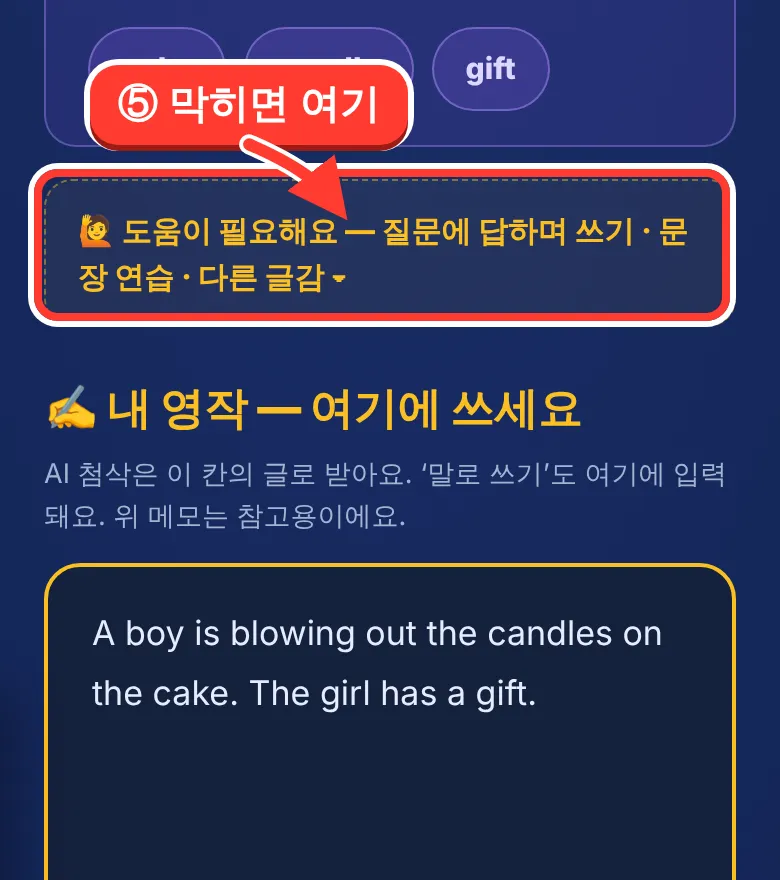
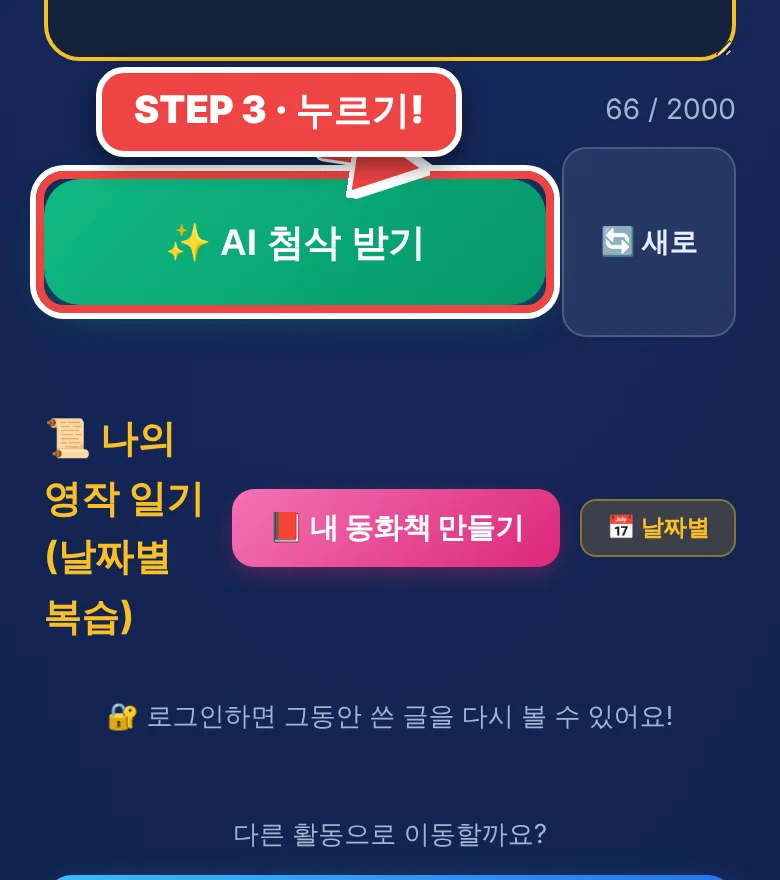
AI 영작 사용 방법 사진을 STEP 1·2·3 표기로 다시 찍기
- 📖 사용 방법 사진 5장에 남아 있던 옛 표기(① 오늘의 그림 · 내 영작 — 여기에 쓰세요)를
  실제 화면에서 다시 찍어 교체(scripts/shoot-aiwrite-guide.mjs 로 재현 가능)
- 설명서 순서를 화면 위→아래(STEP 1 그림·단어 → STEP 2 도움 → STEP 3 쓰기·첨삭)로,
  제목도 ①~⑤ 대신 STEP n (KO/EN)
- 사진 주소 ?v=1 → 2 (immutable 캐시)

Claude-Session: https://claude.ai/code/session_01JBk1Am27dEkotBv9nAyuNf

diff --git a/cloudflare-deploy/public/ai-write.html b/cloudflare-deploy/public/ai-write.html
@@ -749,16 +749,17 @@
   <script>
   (function () {
     var STEPS = [
-      { img: 1, ko: ['① 그림을 봐요', '마음에 드는 그림을 골라요. 다른 그림이 보고 싶으면 «🔀 다른 그림» 을 눌러요.'],
-                en: ['① Look at the picture', 'Pick a picture you like. Tap «🔀 Another picture» to see a different one.'] },
-      { img: 2, ko: ['② 그림 속 단어를 찾아요', '보라색 단어 3개가 그림 안에 숨어 있어요. 3개를 모두 넣어서 쓰면 ⭐ +15P!'],
-                en: ['② Find the picture words', 'The 3 purple words are hiding in the picture. Use all 3 to get ⭐ +15P!'] },
-      { img: 3, ko: ['③ 영어로 써요', '그림 속 사람이 무엇을 하는지 영어로 써요. 짧아도 괜찮아요! «🎤 말로 쓰기» 버튼이 보이면 말로도 쓸 수 있어요.'],
-                en: ['③ Write in English', 'Write what the people in the picture are doing. Short is OK! If you see «🎤 Speak to write», you can write by speaking.'] },
-      { img: 4, ko: ['④ «AI 첨삭 받기» 를 눌러요', '망고 선생님이 틀린 곳을 고쳐 주고 점수를 알려 줘요. 고친 문장을 보고 따라 써 보면 포인트를 더 받아요.'],
-                en: ['④ Tap «Get AI Correction»', 'Coach Mango fixes mistakes and gives you a score. Copy the fixed sentence to earn more points.'] },
-      { img: 5, ko: ['⑤ 막히면 «도움이 필요해요»', '무엇을 쓸지 모르겠으면 눌러 봐요. 질문에 답하면 문장 뼈대를 만들어 줘요.'],
-                en: ['⑤ Stuck? Tap «Need help?»', 'Not sure what to write? Tap it. Answer the questions and you get a sentence outline.'] }
+      // 화면의 STEP 1·2·3 과 같은 이름·같은 순서(위에서 아래). 사진은 scripts/shoot-aiwrite-guide.mjs 가 찍는다 — 순서를 바꾸면 그쪽 SHOTS 도.
+      { img: 1, ko: ['STEP 1 · 그림을 봐요', '마음에 드는 그림을 골라요. 다른 그림이 보고 싶으면 «🔀 다른 그림» 을 눌러요.'],
+                en: ['STEP 1 · Look at the picture', 'Pick a picture you like. Tap «🔀 Another picture» to see a different one.'] },
+      { img: 2, ko: ['STEP 1 · 그림 속 단어를 찾아요', '보라색 단어 3개가 그림 안에 숨어 있어요. 3개를 모두 넣어서 쓰면 ⭐ +15P!'],
+                en: ['STEP 1 · Find the picture words', 'The 3 purple words are hiding in the picture. Use all 3 to get ⭐ +15P!'] },
+      { img: 3, ko: ['STEP 2 · 막히면 «도움이 필요해요»', '무엇을 쓸지 모르겠으면 눌러 봐요(안 해도 돼요). 질문에 답하면 문장 뼈대를 만들어 줘요.'],
+                en: ['STEP 2 · Stuck? Tap «Need help?»', 'Not sure what to write? Tap it (optional). Answer the questions and you get a sentence outline.'] },
+      { img: 4, ko: ['STEP 3 · 영어로 써요', '그림 속 사람이 무엇을 하는지 영어로 써요. 짧아도 괜찮아요! «🎤 말로 쓰기» 버튼이 보이면 말로도 쓸 수 있어요.'],
+                en: ['STEP 3 · Write in English', 'Write what the people in the picture are doing. Short is OK! If you see «🎤 Speak to write», you can write by speaking.'] },
+      { img: 5, ko: ['STEP 3 · «AI 첨삭 받기» 를 눌러요', '망고 선생님이 틀린 곳을 고쳐 주고 점수를 알려 줘요. 고친 문장을 보고 따라 써 보면 포인트를 더 받아요.'],
+                en: ['STEP 3 · Tap «Get AI Correction»', 'Coach Mango fixes mistakes and gives you a score. Copy the fixed sentence to earn more points.'] }
     ];
     var cur = 0;
     function en() { try { return window.getLang && window.getLang() === 'en'; } catch (e) { return false; } }
@@ -767,7 +768,7 @@
       var st = STEPS[cur], L = en() ? st.en : st.ko;
       document.getElementById('awHowStep').innerHTML =
         '<h3>' + esc(L[0]) + '</h3>' +
-        '<img src="/img/aiwrite-guide/step' + st.img + '.webp?v=1" width="780" height="880" alt="' + esc(L[0]) + '" loading="lazy">' +
+        '<img src="/img/aiwrite-guide/step' + st.img + '.webp?v=2" width="780" height="880" alt="' + esc(L[0]) + '" loading="lazy">' +
         '<p>' + esc(L[1]) + '</p>';
       document.getElementById('awHowDots').innerHTML = STEPS.map(function (_, i) { return '<span' + (i === cur ? ' class="on"' : '') + '></span>'; }).join('');
       document.getElementById('awHowPrev').disabled = cur === 0;

diff --git a/docs/작업기록/261016_AI영작_단계번호_STEP123_통일.md b/docs/작업기록/261016_AI영작_단계번호_STEP123_통일.md
@@ -37,5 +37,15 @@
 - «앞서 고른 그림 대신 …» 바뀜 알림(`.go-cur-swap`) 글자 대비가 **4.48**(기준 4.5 미달) — 측정 문제가 아니라 실제 값. `#fde68a` → `#fef3c7` 로 밝혀 **5.01**. 옛 색으로 되돌리면 같은 검사가 실제로 FAIL(3건) 나는 것을 확인했다.
 
 ### 아직 안 한 것
-- 📖 사용 방법 창의 ①~④ 사진은 그대로(위 «버린 방법» 셋째 줄 — 화면을 다시 찍을 때 STEP 표기에 맞출 것).
+- ~~📖 사용 방법 창의 ①~④ 사진은 그대로~~ → 2026-10-16 같은 날 다시 찍음(아래 «사용 방법 사진»).
 - 실제 운영 화면은 못 봄(프록시가 mangoi.ai 를 막음). 병합 뒤 사람이 한 번 봐야 끝.
+
+## 사용 방법 사진 (2026-10-16 추가)
+
+- **왜:** 📖 사용 방법 사진 5장에 옛 표기(«① 오늘의 그림»·«내 영작 — 여기에 쓰세요»·사진 속 ①~⑤)가 남아 화면과 어긋남.
+- **한 일:**
+  - `scripts/shoot-aiwrite-guide.mjs` 신설 — 로컬 서버 + 크로미움(390폭·DPR 2·생일 파티 그림·예문 고정)으로 실제 화면을 찍고 «STEP n · …» 이름표·빨간 테두리를 얹어 780×880 webp 로 저장. 첫 판은 손으로 찍어 방법이 사라졌던 것을 되풀이하지 않으려고 스크립트로 남김.
+  - 사진 순서를 화면 위→아래로: 그림(STEP 1) → 그림 속 단어(STEP 1) → 막히면 도움(STEP 2, 선택) → 영어로 쓰기(STEP 3) → AI 첨삭 받기(STEP 3). 설명서 STEPS 제목도 «①~⑤» 대신 «STEP n · …»(KO/EN), 사진 주소 `?v=1 → 2`(`/img` 는 `?v=` 가 붙으면 1년 immutable).
+- **버린 방법:** 첫 촬영은 fullPage 자르기에 sticky 바(«🎤 말로 쓰기» 줄)가 사진 한가운데 끼고, 화살표가 대상 안 30px 까지 들어가 글자를 덮음 → 찍는 동안 sticky·fixed 를 감추고 화살표는 대상 위 테두리에서 멈추게 고침.
+- **확인:** 브라우저로 첫 방문 모달을 KO·EN 각각 5장 넘겨 봄 — 제목이 «STEP [1-3] · », 사진 5장 모두 780×880 로드, 마지막 «시작하기» 뒤 `#text` 포커스(12/12). ai_write 하니스 3종 통과, `run.mjs --fast` PASS 532 / FAIL 0. 사진은 눈으로 5장 확인.
+- **아직:** 운영 화면은 못 봄 — 병합 뒤 사람이 📖 사용 방법을 한 번 넘겨 봐야 끝.
